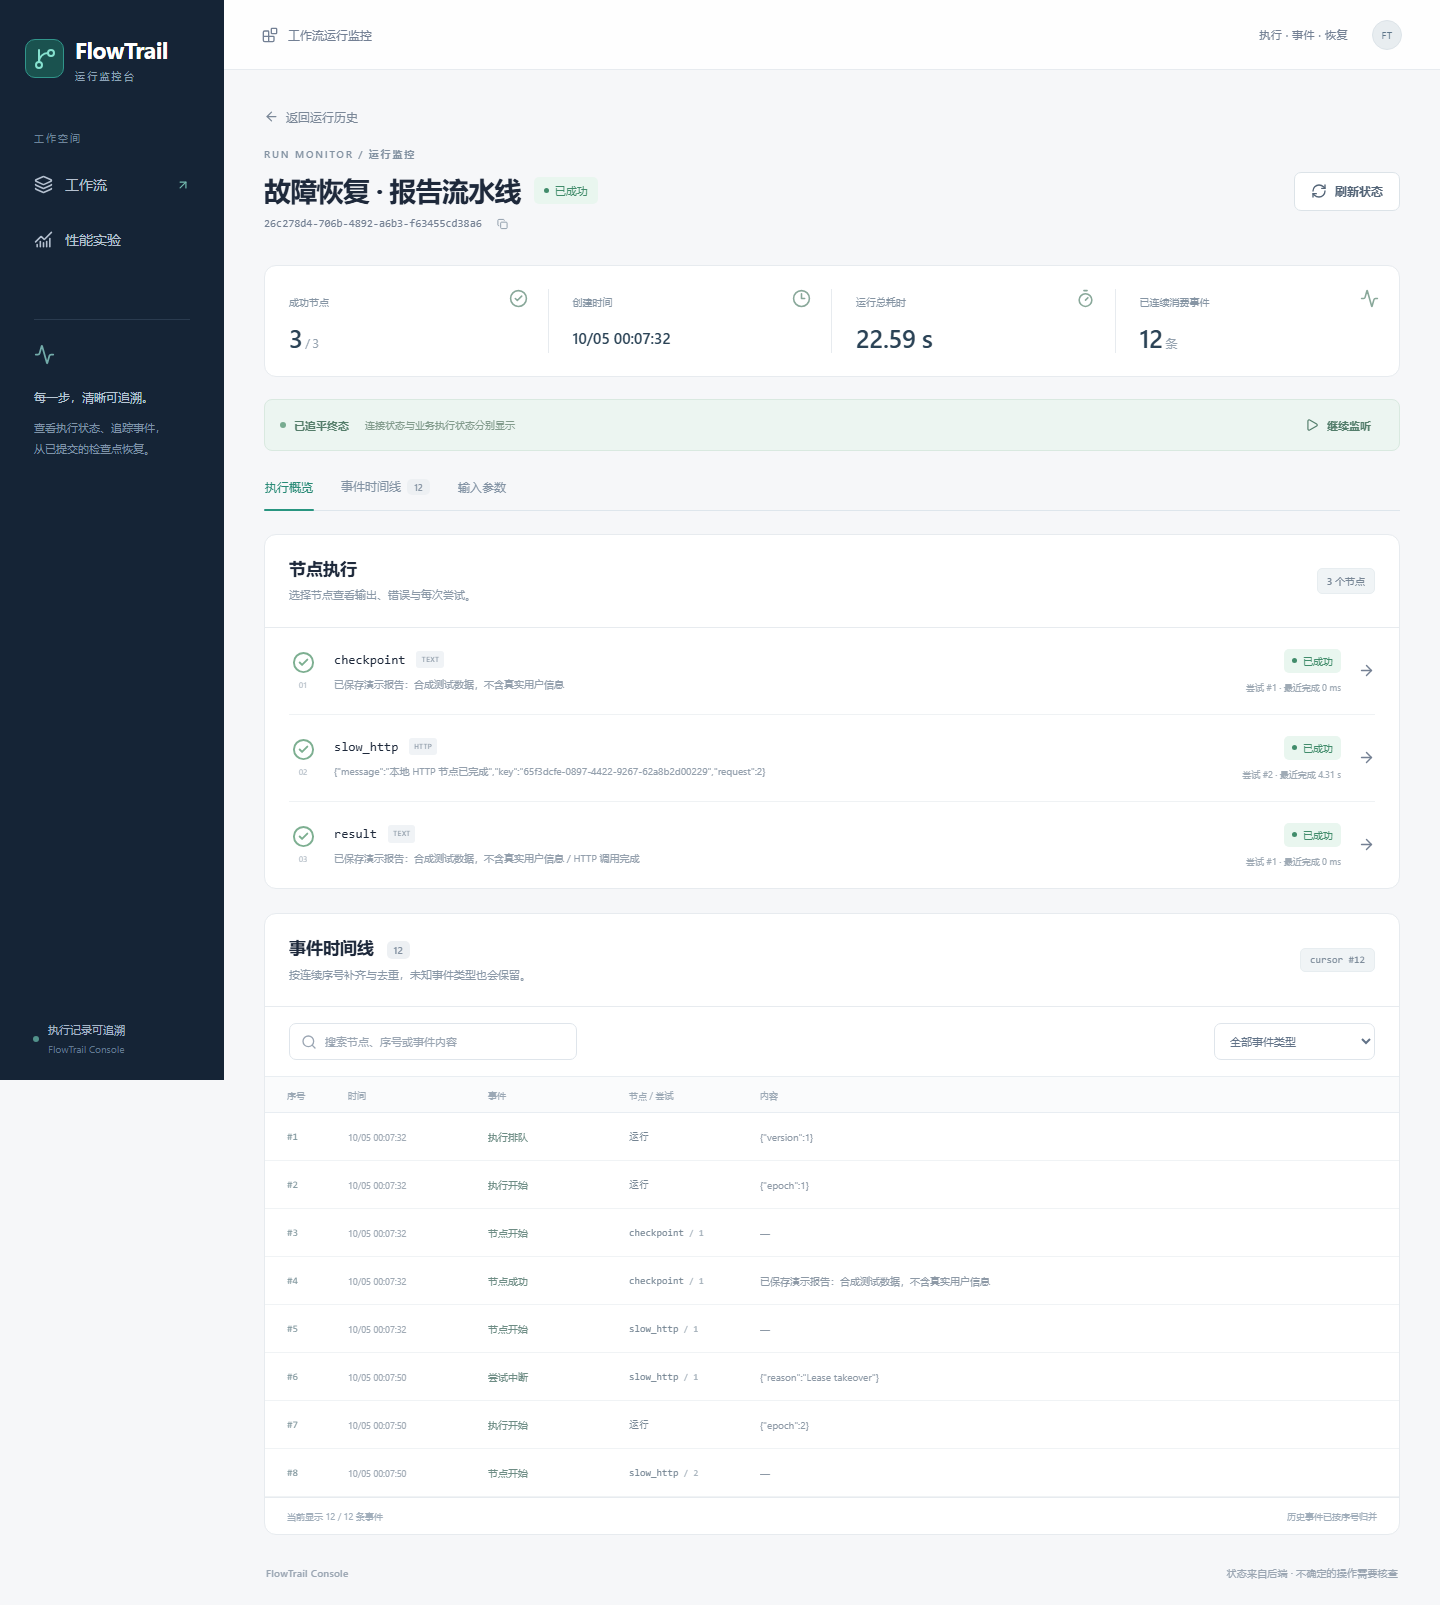
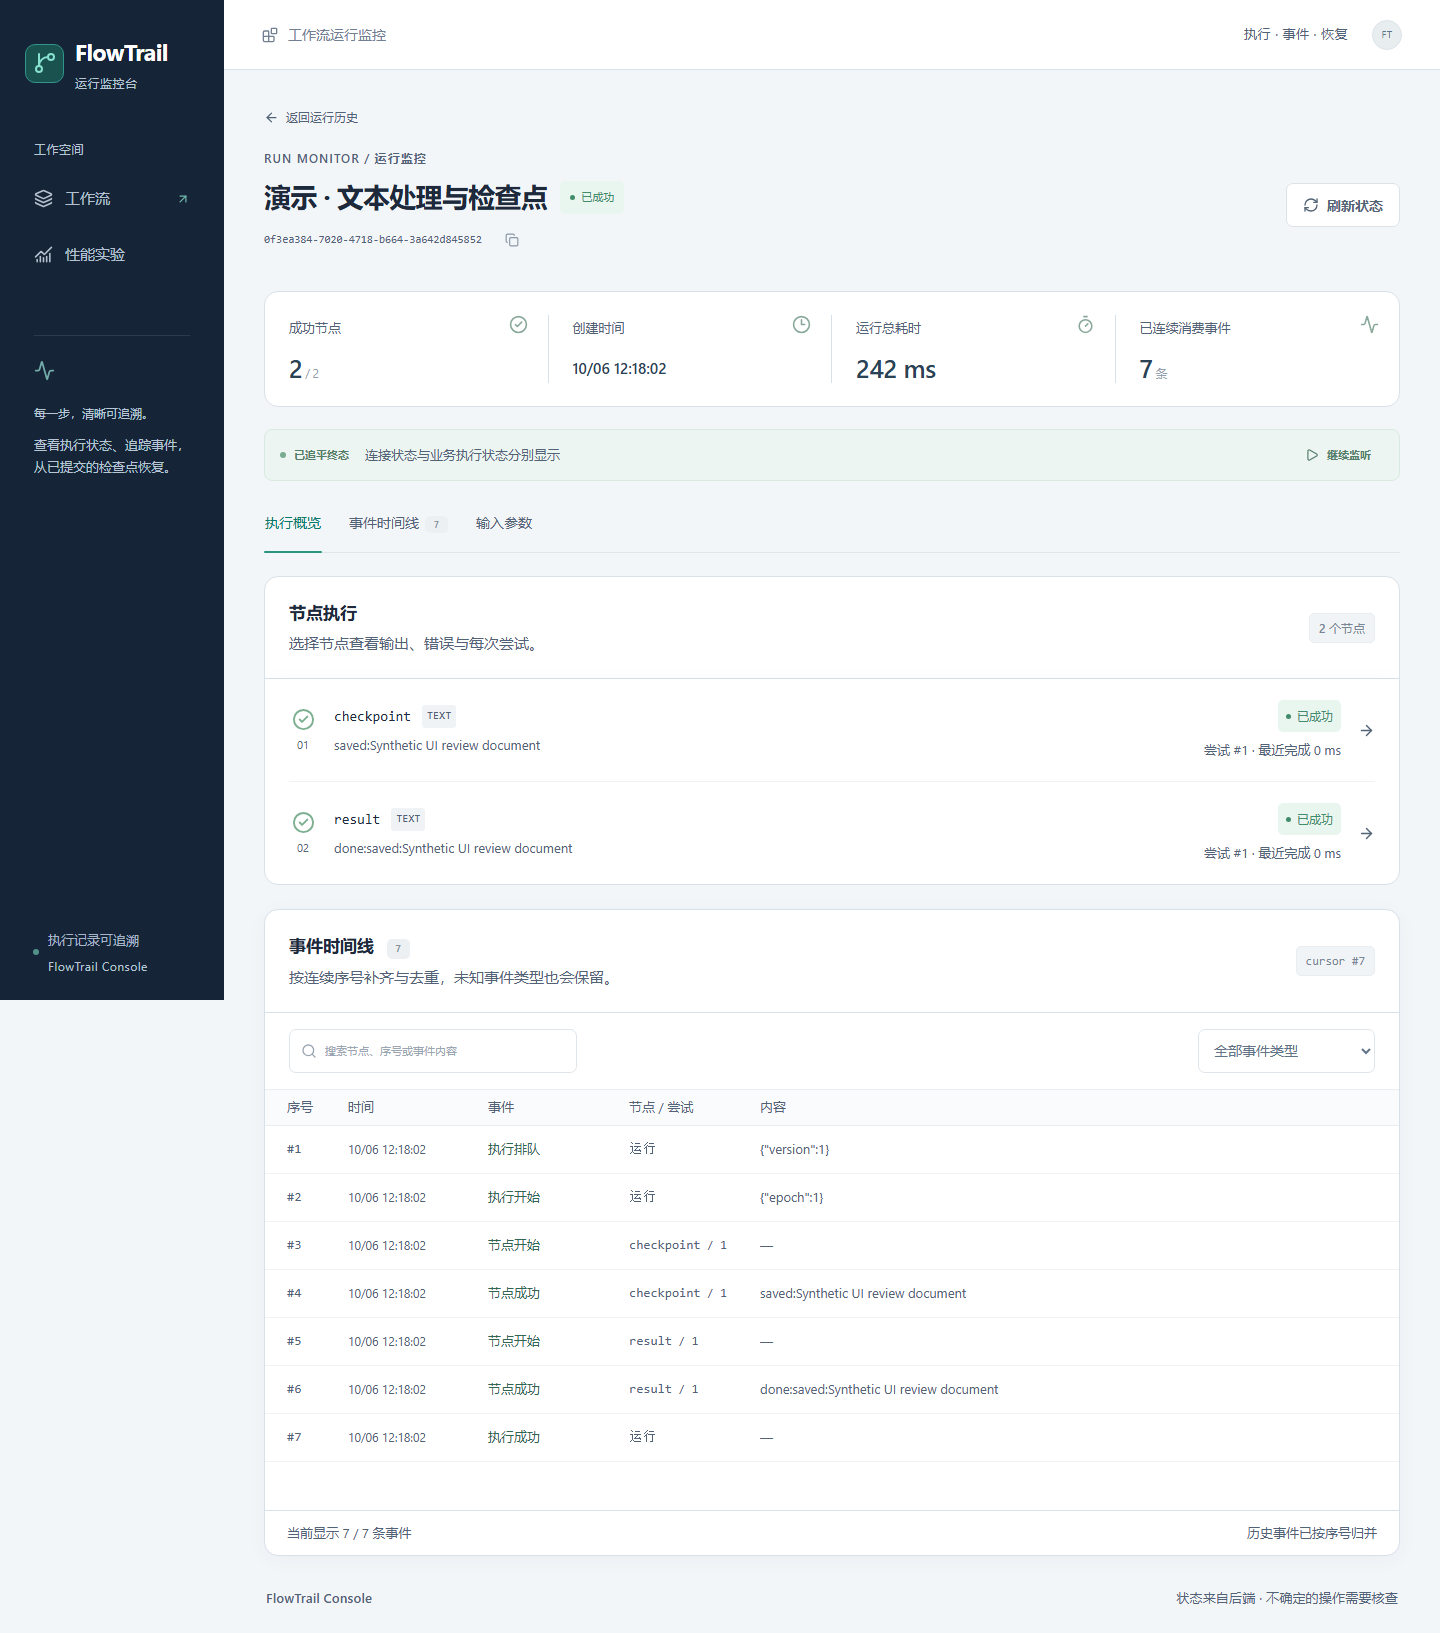
Improve interface readability, responsive layouts and keyboard access

diff --git a/src/interface.css b/src/interface.css
@@ -1,0 +1,119 @@
+/* Interface foundations: readable operational data at every viewport. */
+:root {
+  --ink: #172b40;
+  --muted: #526377;
+  --line: #d8e1e9;
+  --teal: #08796d;
+  --teal-soft: #e6f4f0;
+  --radius: 14px;
+  font-size: 16px;
+  line-height: 1.55;
+  background: #f3f6f9;
+}
+.main-content { max-width: 1760px; margin-inline: auto; }
+.topbar { border-bottom-color: var(--line); background: #fff; font-size: 14px; }
+.topbar-right { color: var(--muted); font-size: 13px; }
+.brand small, .sidebar-label, .sidebar-footer small { font-size: 12px; letter-spacing: .04em; }
+.nav-link { min-height: 48px; font-size: 15px; }
+.sidebar-description p, .sidebar-footer { font-size: 13px; line-height: 1.7; }
+.page-heading p, .panel-heading p { color: var(--muted); font-size: 15px; line-height: 1.65; }
+.eyebrow { font-size: 12px; letter-spacing: .09em; }
+.workflow-card, .summary-strip, .input-panel, .event-panel, .node-list, .saved-inputs {
+  border-color: var(--line);
+  box-shadow: 0 4px 20px rgb(23 43 64 / 4%);
+}
+.workflow-card h3 { line-height: 1.4; overflow-wrap: anywhere; }
+.workflow-created, .workflow-card p, .workflow-card-actions, .fine-print, .notice, .field,
+.input-panel label, .run-guide p, .run-guide li, .page-footer { font-size: 13px; line-height: 1.65; }
+.summary-strip span, .run-metrics span { font-size: 13px; color: var(--muted); }
+.button, .search-field, .filters select, .field input, .field textarea, .field select,
+.tabs > button, .event-toolbar select { min-height: 44px; font-size: 14px; }
+.button { white-space: normal; text-wrap: pretty; }
+.button.primary { background: var(--teal); border-color: var(--teal); color: #fff; }
+.button.primary:hover:not(:disabled) { background: #05675d; }
+.status-badge, .node-type-tags, .tag { font-size: 12px; line-height: 1.5; }
+.runs-table, .run-link, .table-time, .node-main strong { font-size: 14px; }
+.node-main > span, .node-status small, .connection-bar, .event-row, .event-table-heading,
+.event-footer, .metadata, .drawer-body .notice, .output-block, .attempt-card summary { font-size: 13px; }
+.node-kind, .node-order small { font-size: 11px; }
+.connection-bar { line-height: 1.65; }
+.metadata dt { color: var(--muted); }
+.metadata dd, .output-block { color: #374f63; }
+.request-key code, .run-id .mono { font-size: 12px; overflow-wrap: anywhere; }
+.eyebrow, .back-link, .page-footer, .node-kind, .node-order small,
+.node-main > span, .node-status small, .event-table-heading, .event-seq,
+.event-time, .event-node, .event-node small, .event-content, .event-empty,
+.event-footer, .connection-bar > span:nth-of-type(2), .tabs > button {
+  color: var(--muted);
+}
+.event-type { color: #326654; }
+.tabs > button.active { color: var(--teal); }
+.sidebar-label, .sidebar-footer small, .sidebar-description p, .brand small { color: #b6c6d3; }
+input::placeholder, textarea::placeholder { color: #526377; opacity: 1; }
+.event-time, .event-node small { font-size: 12px; }
+.icon-button { min-width: 44px; min-height: 44px; }
+:is(button, a, input, textarea, select, summary):focus-visible {
+  outline: 3px solid #08796d;
+  outline-offset: 3px;
+}
+.sidebar :is(button, a):focus-visible { outline-color: #82e4cf; }
+.skip-link:focus { background: #fff; color: var(--ink); padding: 12px 18px; }
+@media (max-width: 900px) {
+  .main-content { padding: 28px 22px; }
+  .page-heading { flex-wrap: wrap; }
+  .page-heading > .button { margin-top: 0; }
+  .filters { flex-wrap: wrap; }
+}
+@media (max-width: 640px) {
+  .sidebar { height: auto; min-height: 72px; flex-wrap: wrap; padding: 12px 16px; gap: 12px; }
+  .brand { font-size: 22px; }
+  .brand small { font-size: 11px; letter-spacing: .03em; }
+  .sidebar nav { flex: 1; justify-content: flex-end; }
+  .nav-link { min-height: 44px; height: auto; padding: 10px; font-size: 13px; }
+  .nav-link svg { width: 18px; height: 18px; }
+  .topbar { height: auto; min-height: 48px; gap: 12px; padding: 12px 18px; font-size: 13px; }
+  .topbar-right { font-size: 12px; }
+  .topbar-right > .avatar { display: none; }
+  .main-content { padding: 24px 18px; }
+  .page-heading { gap: 18px; }
+  .page-heading h1 { font-size: 28px; line-height: 1.35; }
+  .page-heading p { font-size: 15px; }
+  .page-heading > .button, .detail-heading .button-row .button { min-height: 44px; font-size: 14px; padding: 10px 14px; }
+  .summary-strip { flex-wrap: wrap; gap: 16px; padding: 20px; }
+  .summary-strip > div:not(.summary-note) { padding-right: 16px; margin-right: 0; }
+  .summary-strip span { font-size: 13px; }
+  .summary-strip strong { font-size: 28px; }
+  .filters { gap: 10px; }
+  .search-field { min-height: 44px; }
+  .search-field input, .filters select { font-size: 16px; min-height: 44px; }
+  .filters select { max-width: none; }
+  .workflow-card h3 { font-size: 20px; }
+  .workflow-created, .workflow-card-actions, .notice, .field, .run-guide li, .page-footer { font-size: 13px; }
+  .workflow-card-actions { flex-wrap: wrap; gap: 10px; padding-block: 16px; }
+  .field input, .field textarea, .field select { font-size: 16px; }
+  .status-badge { font-size: 12px; padding: 6px 9px; }
+  .runs-table th, .runs-table td { padding: 16px 12px; }
+  .run-link, .runs-table .status-badge { font-size: 12px; }
+  .tabs { gap: 20px; }
+  .tabs > button { font-size: 14px; min-height: 44px; }
+  .tabs .count { font-size: 12px; }
+  .node-row { align-items: flex-start; }
+  .node-main strong { font-size: 14px; }
+  .node-main > span, .node-status small { font-size: 12px; }
+  .node-status { min-width: 0; }
+  .node-status .status-badge { font-size: 11px; }
+  .connection-bar strong, .connection-bar > span:nth-of-type(2), .connection-bar .button { font-size: 12px; }
+  .connection-bar .button { min-height: 44px; }
+  .event-toolbar input, .event-toolbar select { font-size: 16px; }
+  .event-table-heading, .event-row { font-size: 12px; }
+  .event-footer { font-size: 12px; }
+  .event-footer { flex-wrap: wrap; }
+  .event-footer::after { content: '向右滚动表格，查看节点与事件内容'; width: 100%; color: var(--muted); }
+  .modal-heading h2 { font-size: 20px; }
+  .metadata, .output-block, .template-option small { font-size: 13px; }
+  .template-option strong { font-size: 15px; }
+  .page-footer { line-height: 1.7; }
+}
+@media (prefers-reduced-motion: reduce) {
+  *, *::before, *::after { scroll-behavior: auto !important; }
+}

diff --git a/src/main.tsx b/src/main.tsx
@@ -5,5 +5,6 @@ import { QueryClient, QueryClientProvider } from '@tanstack/react-query';
 import { ApiError } from './lib/api';
 import App from './App';
 import './styles.css';
+import './interface.css';
 const queryClient = new QueryClient({ defaultOptions: { queries: { staleTime: 1500, retry: (count, error) => !(error instanceof ApiError && error.status >= 400 && error.status < 500) && count < 1, refetchOnWindowFocus: true }, mutations: { retry: false } } });
 ReactDOM.createRoot(document.getElementById('root')!).render(<React.StrictMode><QueryClientProvider client={queryClient}><BrowserRouter><App /></BrowserRouter></QueryClientProvider></React.StrictMode>);

diff --git a/README_ZH.md b/README_ZH.md
@@ -75,3 +75,7 @@ URL 存筛选；TanStack Query 存服务端快照；React Hook Form＋Zod 存输
 | `docs` | 设计说明、实测数据、演示与来源 |
 
 MIT 许可；原后端许可保留于 `server/`，依赖说明见 [THIRD_PARTY_NOTICES.md](THIRD_PARTY_NOTICES.md)。
+
+## 界面体验
+
+持久化工作流控制台，提供清晰的运行状态、可搜索的执行事件和桌面及手机布局。

diff --git a/README.md b/README.md
@@ -73,3 +73,7 @@ The URL holds filters; TanStack Query holds REST snapshots; React Hook Form + Zo
 ## License
 
 MIT. Backend attribution and original license are retained under `server/`; dependency notices are in [THIRD_PARTY_NOTICES.md](THIRD_PARTY_NOTICES.md).
+
+## Interface
+
+A durable workflow console with readable run status, searchable execution events, and layouts for desktop and mobile.
